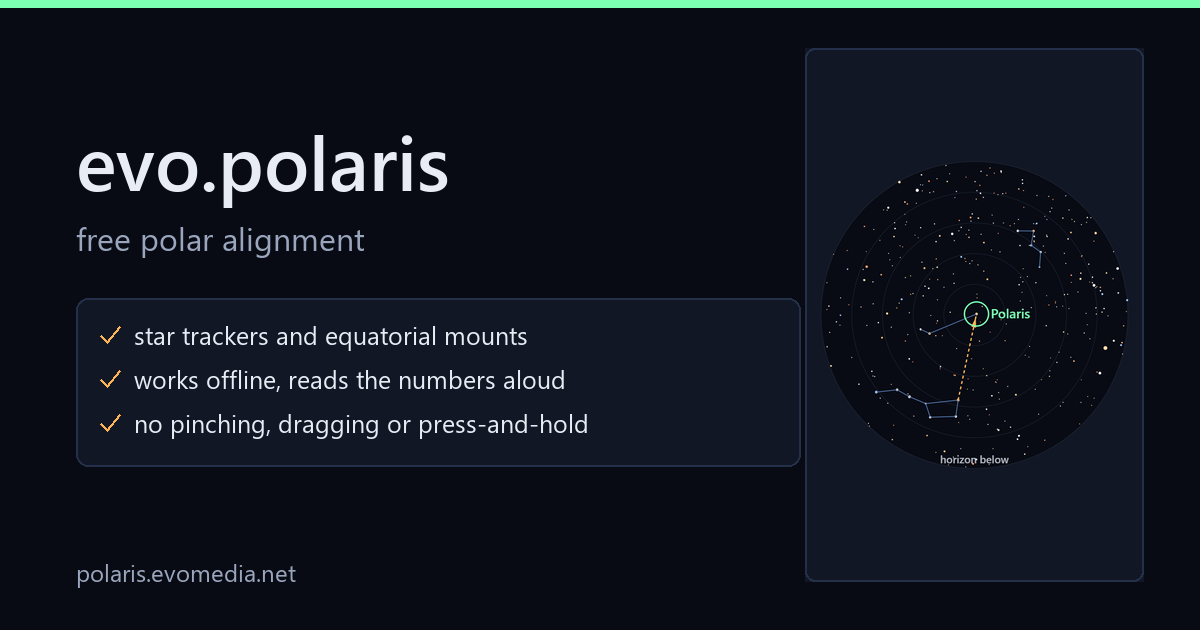
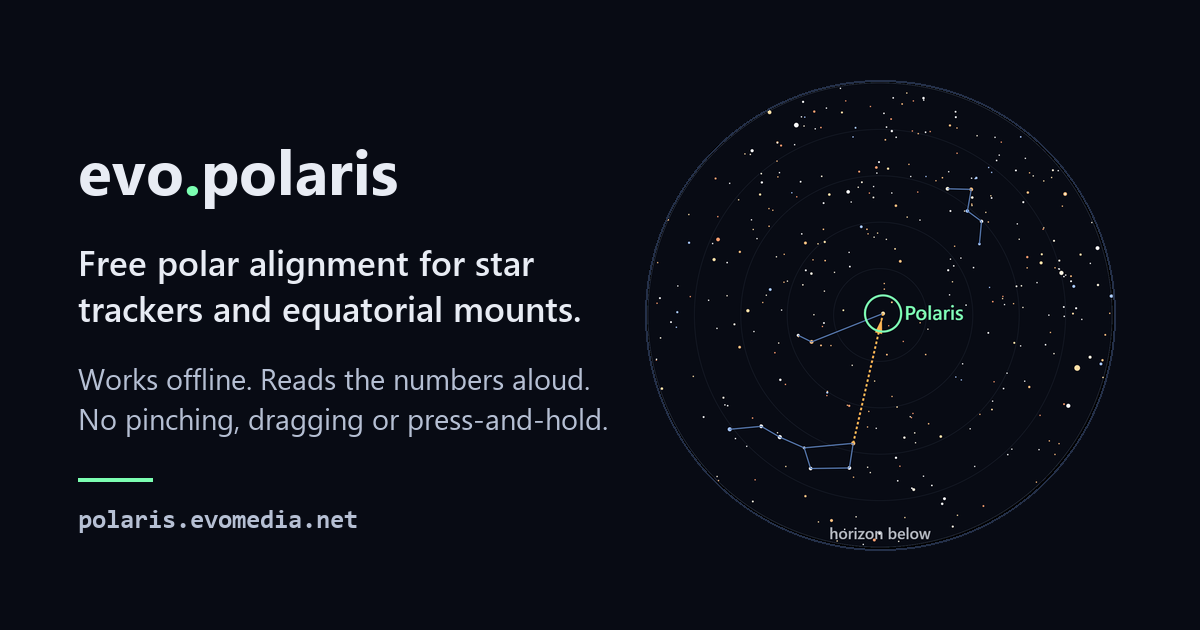
feat(og): give the card its own generator, and put the headline and paragraph back (#14)
The card lost its copy. Moving it onto the shared fleet generator meant fitting
its layout: the headline "Free polar alignment for star trackers and equatorial
mounts." measures 850px against the 724px a subtitle gets there, so it was cut
to "free polar alignment" with the remainder demoted to a bullet, and the
supporting paragraph became three checkmarked fragments. That is not the card -
it is a different card that happened to fit.

The shared layout also reserves w-400 for text and insets the shot beside it.
That suits a card whose picture is supporting evidence. Here the picture IS the
product, and the leftover column made the chart smaller than in any version
before it.

evo.scripts/make_og_card.py already documents the way out, for evo.ehs: a card
built around a product image is a different layout and belongs with the image
it depends on. So this repo gets its own generator, and the card goes back to
what it was - wordmark, full headline, the short supporting paragraph, rule,
domain, and the chart at 470px.

WHAT IS ACTUALLY FIXED, as opposed to restored: the chart. Every earlier card
took the app's 420px on-screen canvas and scaled it UP to 470px, which is why
they stayed soft through three rounds of tuning quality, type size and format -
none of which could touch the real fault. media/og-shot.png is now rendered by
drawSkyChart at 1260px and comes DOWN. The generator refuses a shot smaller
than 470px rather than stretching it, so the defect cannot return quietly.
[…]

diff --git a/scripts/make_og_card.py b/scripts/make_og_card.py
@@ -1,0 +1,159 @@
+r"""Render this app's link-preview card.
+
+    python scripts\make_og_card.py --shot media\og-shot.png --out site\og-card.png
+
+The fleet has a shared generator at evo.scripts\make_og_card.py and most sites
+should use it. This one does not, for the reason that file's own header gives
+for evo.ehs: a card built around a product image is a different layout, and it
+belongs with the image it depends on.
+
+The shared layout reserves `w - 400` for text and insets the shot beside it.
+That suits a card whose picture is supporting evidence. Here the picture IS the
+product - a sky chart with Polaris ringed and the Dipper pointing at it - and
+squeezing it into the leftover column made it smaller than in any earlier
+version, which was the whole complaint.
+
+So: the original arrangement. Wordmark, headline, a short supporting paragraph,
+a rule, the domain - and the chart at 470px on the right.
+
+WHY EVERYTHING IS LARGER THAN IT LOOKS IT NEEDS TO BE. LinkedIn re-encodes and
+downscales what it fetches; a card that is pin-sharp at 1200px is rendered from
+a much smaller copy in the feed. Type that reads comfortably at full size turns
+to mush there. The sizes here are the largest the composition allows, not the
+smallest that looked fine on a desktop.
+
+THE CHART IS NEVER UPSCALED. The app draws its sky chart on a 420px canvas; the
+first three cards took that and scaled it UP to 470px, which is why they stayed
+soft however the quality was set. media/og-shot.png is rendered by the app's own
+drawSkyChart at 1260px and comes DOWN to 470 here. To regenerate it, open the
+live site and run:
+
+    const chart = await import('/src/chart.js');
+    const astro = await import('/src/astro.js');
+    const stars = await (await fetch('/src/data/stars.json')).json();
+    const lst = astro.lstHours(astro.julianDay(new Date()), -95.2622);
+    const c = document.createElement('canvas'); c.width = c.height = 1260;
+    chart.drawSkyChart(c.getContext('2d'),
+        {stars, lst, radiusDeg: 50, night: false, size: 1260, south: false});
+    c.toBlob(b => { const a = document.createElement('a');
+        a.href = URL.createObjectURL(b); a.download = 'og-shot.png'; a.click(); });
+
+Use a NORTHERN longitude/latitude. The card says find Polaris, and Polaris is
+not visible from the southern hemisphere - a southern chart shipped once, and
+it contradicted the words printed beside it.
+
+PNG, not JPEG: flat colour and text on a dark ground is what PNG keeps sharp
+and what JPEG's chroma subsampling smears.
+"""
+from __future__ import annotations
+
+import argparse
+from pathlib import Path
+
+from PIL import Image, ImageDraw, ImageFont
+
+FONTS = Path("C:/Windows/Fonts")
+SANS = "segoeui.ttf"
+SANS_BOLD = "segoeuib.ttf"
+SANS_SEMIBOLD = "seguisb.ttf"
+MONO_BOLD = "consolab.ttf"
+
+SIZE = (1200, 630)
+
+# The app's own palette, from site/src/style.css, so the card and the page look
+# like one product rather than two.
+BG = "#080b14"
+INK = "#e8ecf4"
+DIM = "#b6c0d4"        # --ink-dim lifted a little: it is read at thumbnail size
+ACCENT = "#7CFFB2"
+LINE = "#243049"
+
+PAD = 78
+CHART_CX, CHART_CY, CHART_D = 880, 315, 470
+
+TITLE = "evo.polaris"
+HEADLINE = ["Free polar alignment for star", "trackers and equatorial mounts."]
+# The supporting paragraph. Both sentences are the README's claims, unchanged.
+PARAGRAPH = ["Works offline. Reads the numbers aloud.",
+             "No pinching, dragging or press-and-hold."]
+DOMAIN = "polaris.evomedia.net"
+
+
+def font(name: str, size: int) -> ImageFont.FreeTypeFont:
+    return ImageFont.truetype(str(FONTS / name), size)
+
+
+def build(shot: Path) -> Image.Image:
+    card = Image.new("RGB", SIZE, BG)
+    draw = ImageDraw.Draw(card)
+
+    # No glow behind the chart. A radial falloff was tried and removed: PIL has
+    # no radial fill, and stacking ellipses to fake one banded visibly at this
+    # size - a hard circular edge across the left of the card. Flat ground is
+    # the honest version, and the disc has its own outline to sit against.
+
+    # The chart, brought DOWN from 1260px and masked to a circle.
+    im = Image.open(shot).convert("RGB").resize((CHART_D, CHART_D), Image.LANCZOS)
+    mask = Image.new("L", (CHART_D, CHART_D), 0)
+    ImageDraw.Draw(mask).ellipse((0, 0, CHART_D - 1, CHART_D - 1), fill=255)
+    card.paste(im, (CHART_CX - CHART_D // 2, CHART_CY - CHART_D // 2), mask)
+    draw.ellipse((CHART_CX - CHART_D // 2, CHART_CY - CHART_D // 2,
+                  CHART_CX + CHART_D // 2, CHART_CY + CHART_D // 2),
+                 outline=LINE, width=2)
+
+    # Wordmark, with the dot in the accent colour exactly as the page's <h1>.
+    f_title = font(SANS_BOLD, 62)
+    x, y = PAD, 128
+    draw.text((x, y), "evo", font=f_title, fill=INK)
+    x += draw.textlength("evo", font=f_title)
+    draw.text((x, y), ".", font=f_title, fill=ACCENT)
+    x += draw.textlength(".", font=f_title)
+    draw.text((x, y), "polaris", font=f_title, fill=INK)
+
+    f_head = font(SANS_SEMIBOLD, 35)
+    y = 238
+    for line in HEADLINE:
+        draw.text((PAD, y), line, font=f_head, fill=INK)
+        y += 46
+
+    f_para = font(SANS, 29)
+    y = 358
+    for line in PARAGRAPH:
+        draw.text((PAD, y), line, font=f_para, fill=DIM)
+        y += 40
+
+    draw.rectangle((PAD, 478, PAD + 74, 481), fill=ACCENT)
+
+    draw.text((PAD, 508), DOMAIN, font=font(MONO_BOLD, 26), fill=DIM)
+    return card
+
+
+def main() -> None:
+    ap = argparse.ArgumentParser(description=__doc__)
+    ap.add_argument("--shot", required=True, type=Path,
+                    help="the sky chart, square, rendered by drawSkyChart")
+    ap.add_argument("--out", required=True, type=Path)
+    args = ap.parse_args()
+
+    im = Image.open(args.shot)
+    if im.width != im.height:
+        raise SystemExit(f"--shot must be square; got {im.width}x{im.height}")
+    # Upscaling the chart is the defect this file exists to prevent, so it is
+    # refused rather than merely discouraged.
+    if im.width < CHART_D:
+        raise SystemExit(
+            f"--shot is {im.width}px and the card draws it at {CHART_D}px: "
+            "that would upscale. Re-render it at 1260px (see the module "
+            "docstring) rather than letting it be stretched.")
+
+    card = build(args.shot)
+    if card.size != SIZE:
+        raise SystemExit(f"size drifted: {card.size}")
+    args.out.parent.mkdir(parents=True, exist_ok=True)
+    card.save(args.out, "PNG", optimize=True)
+    print(f"wrote {args.out}  {card.width}x{card.height}  "
+          f"{args.out.stat().st_size // 1024} KB")
+
+
+if __name__ == "__main__":
+    main()

diff --git a/README.md b/README.md
@@ -102,16 +102,26 @@ shared. It is **generated, not hand-made** — the previous card was a JPEG
 committed with nothing behind it, so it could only be re-encoded, never
 rebuilt, and its chart was the 420px on-screen canvas scaled *up*.
 
-It is rendered by the fleet card generator from a spec named `polaris`:
+It is rendered by this repo's own generator:
 
 ```
-python ..\scripts\make_og_card.py polaris --shot media\og-shot.png --out site\og-card.png
+python scripts\make_og_card.py --shot media\og-shot.png --out site\og-card.png
 ```
 
-`media/og-shot.png` is the chart it insets — 800x1260, drawn by this app's own
-`drawSkyChart` at 740px rather than screenshotted, so the stars are pinpoints
-instead of blobs. It lives outside `site/` because the deploy ships `site/`
-only; it is an input, not a served asset.
+The fleet has a shared generator at `evo.scripts\make_og_card.py` and most
+sites should use it. This one does not, for the reason that file's header gives
+for evo.ehs: a card built around a product image is a different layout and
+belongs with the image it depends on. The shared layout reserves `w - 400` for
+text and insets the shot beside it, which suits a card whose picture is
+supporting evidence — here the picture *is* the product, and the leftover
+column made it smaller than in any earlier version.
+
+`media/og-shot.png` is the chart it draws — 1260x1260, produced by this app's
+own `drawSkyChart` rather than screenshotted, and brought *down* to 470px on
+the card. The generator refuses a shot smaller than that rather than stretching
+it: upscaling a 420px canvas is exactly what made the first three cards soft.
+It lives outside `site/` because the deploy ships `site/` only; it is an input,
+not a served asset.
 
 Two things to get right when regenerating it:
 
